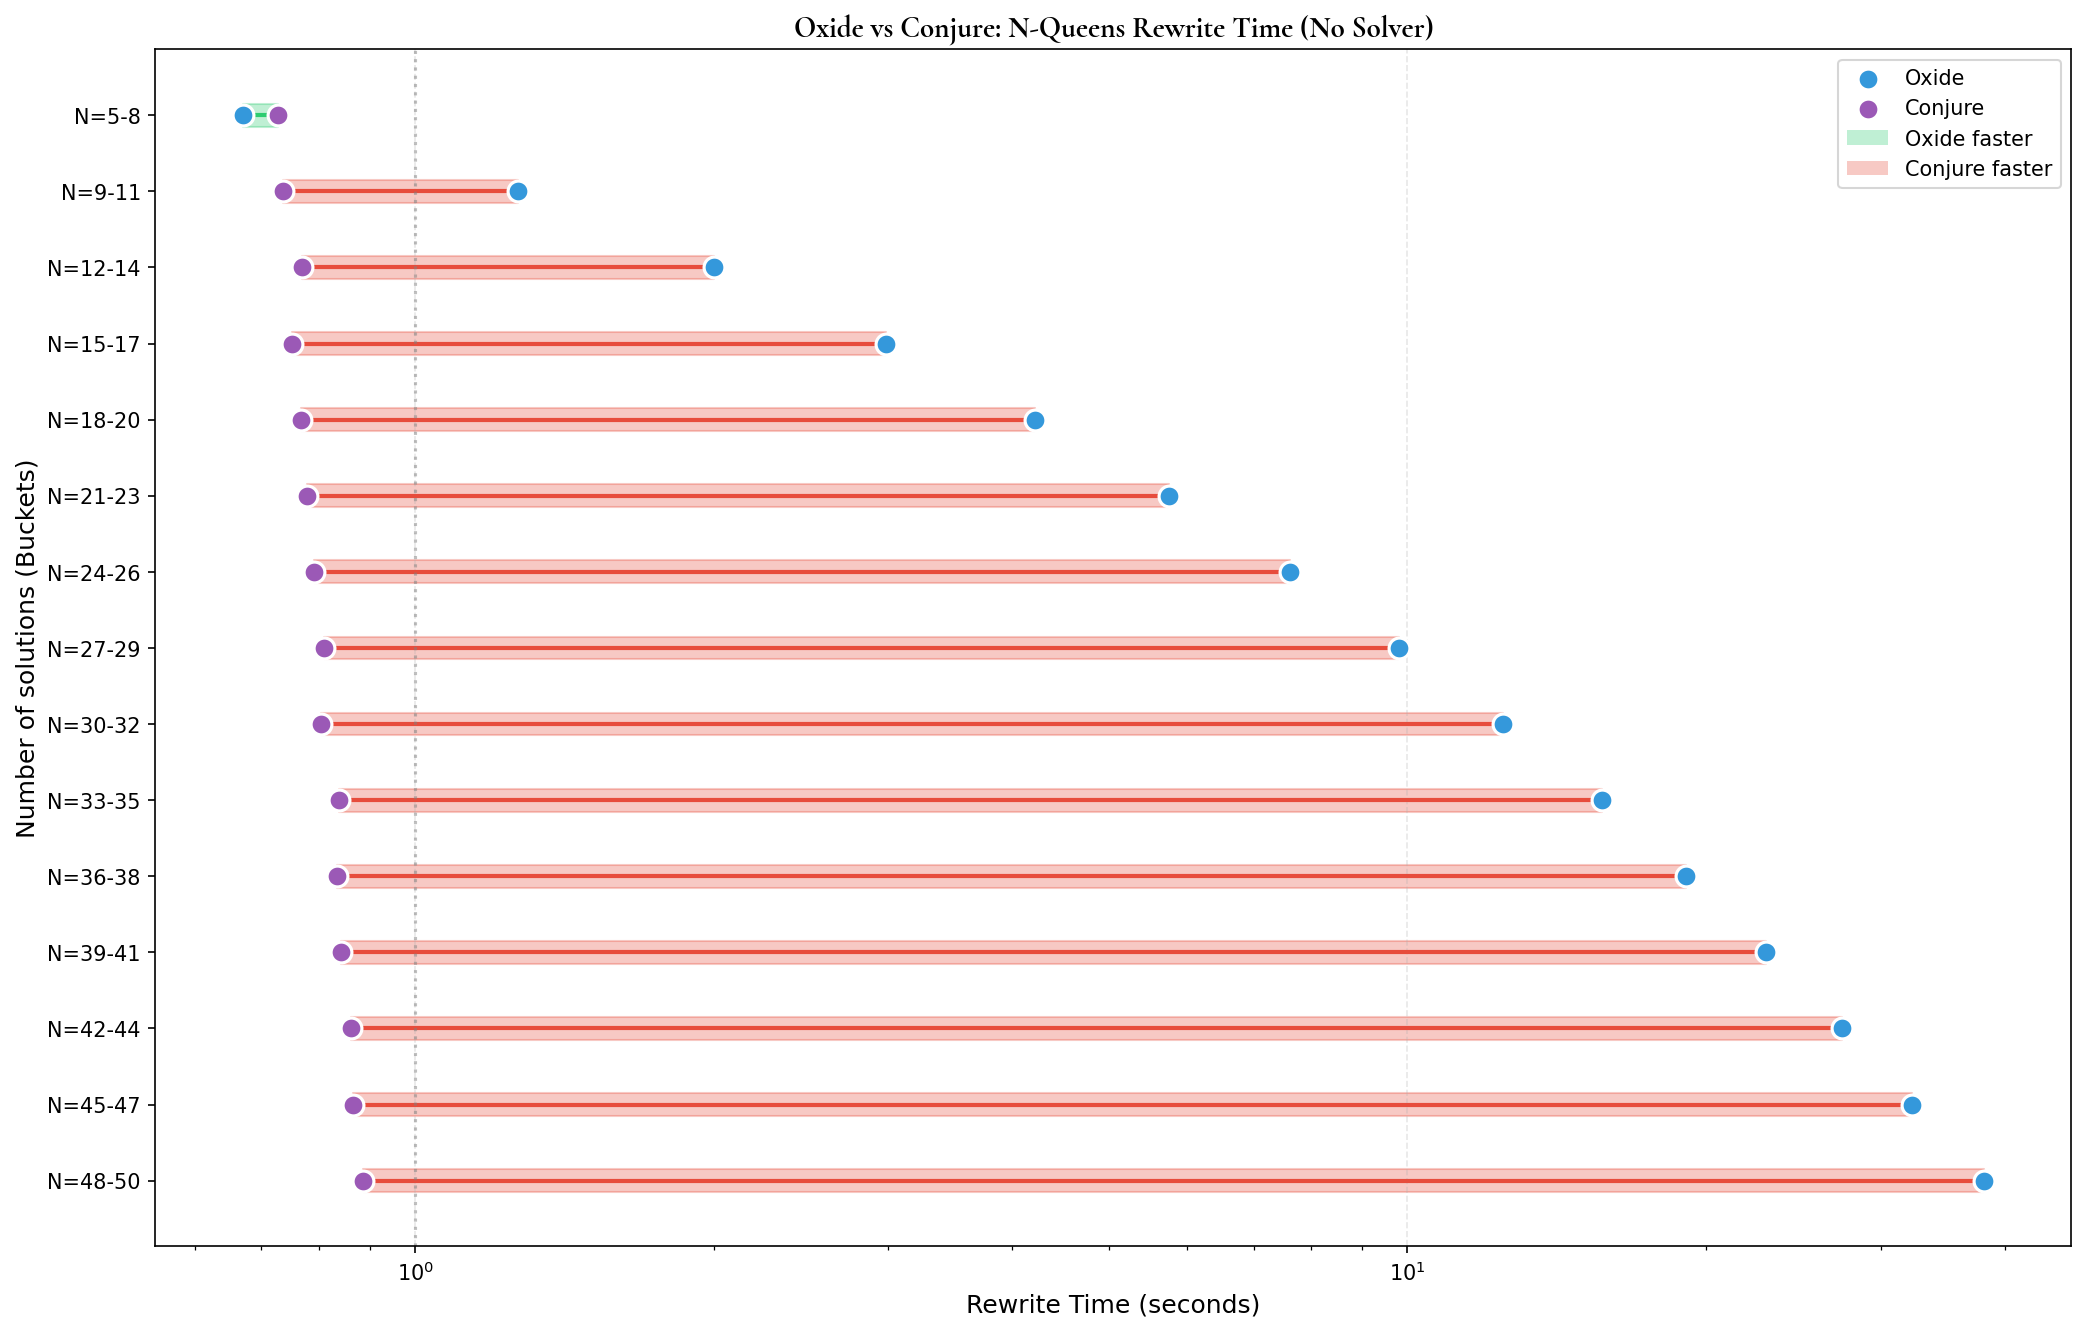
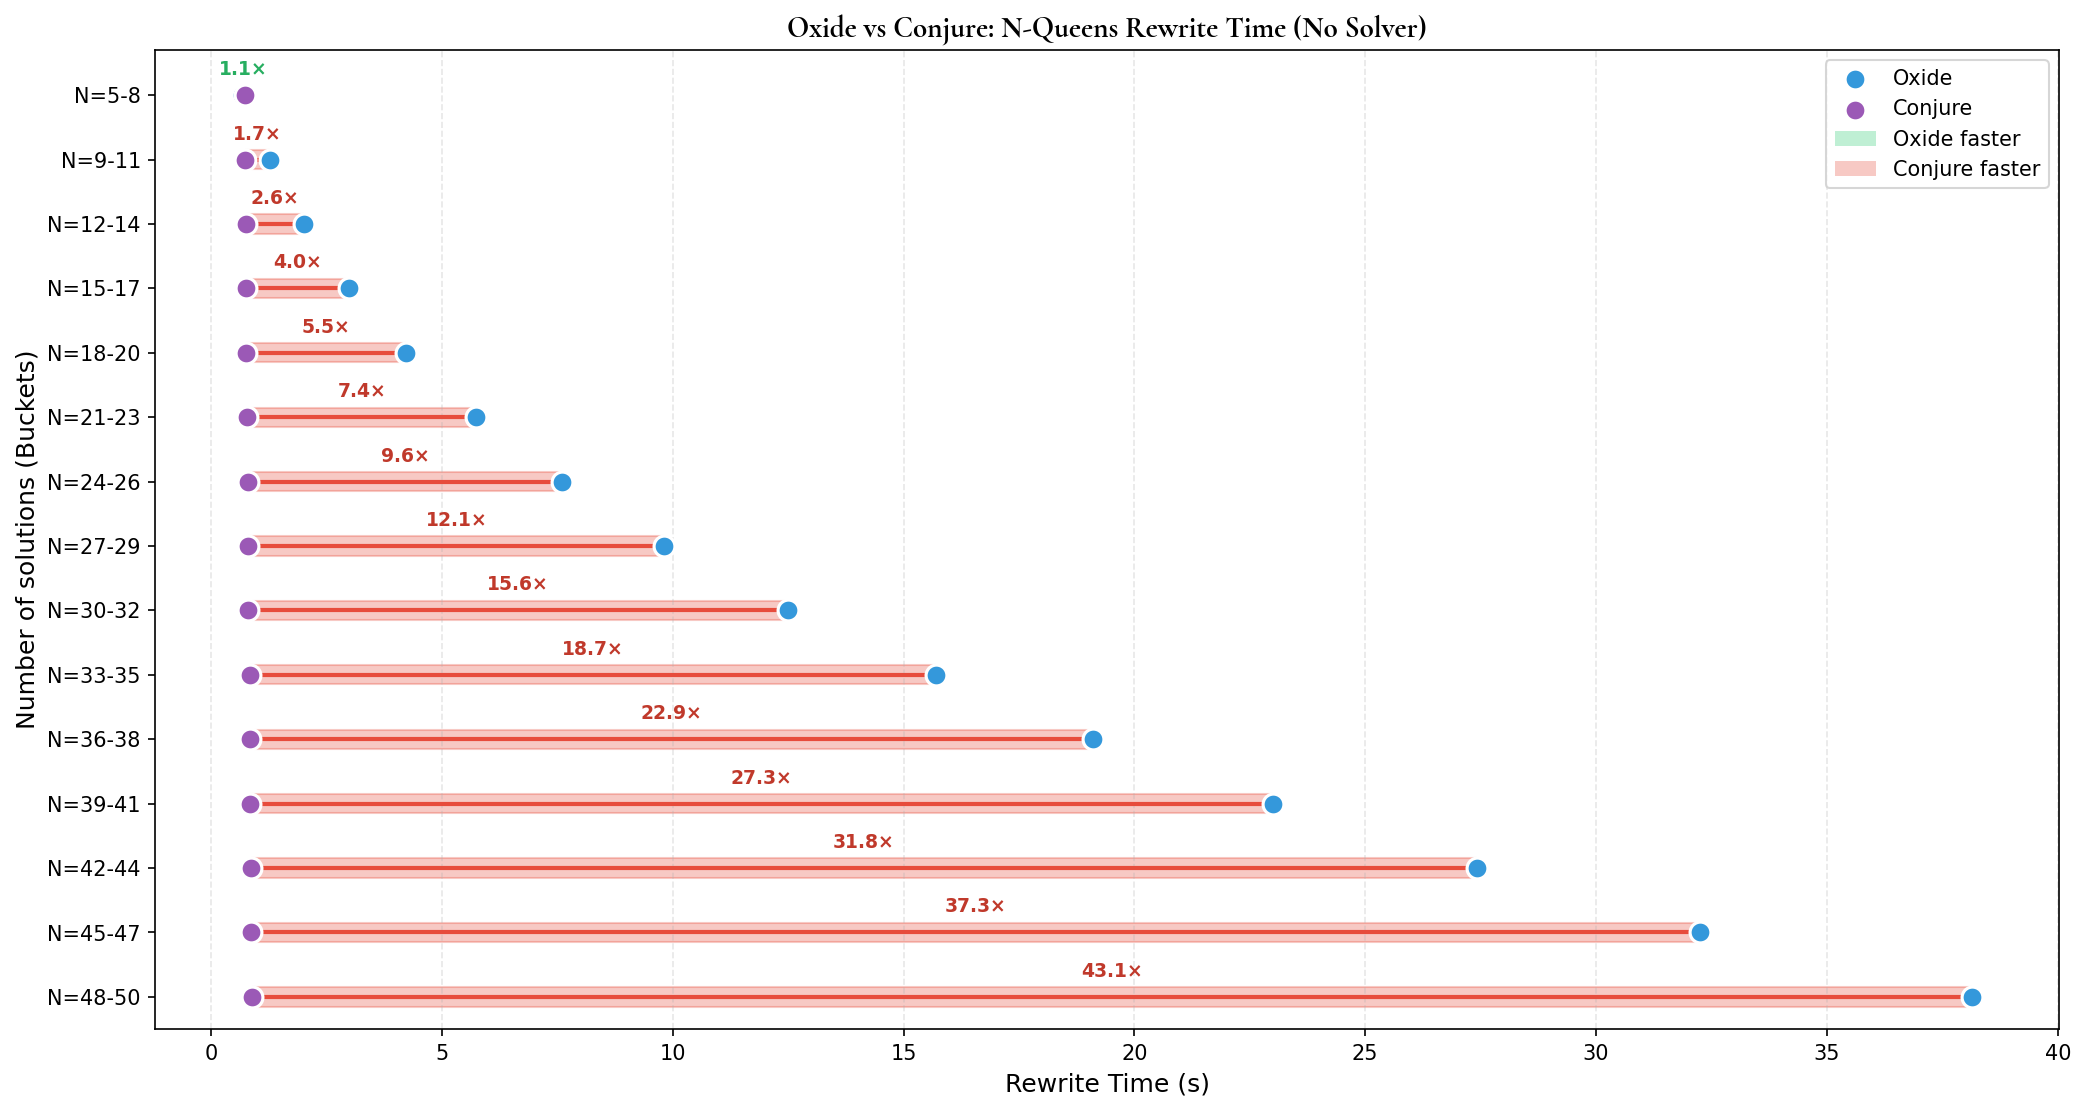
WIP

diff --git a/diss/experiments/scaling-models/compare_stages.py b/diss/experiments/scaling-models/compare_stages.py
@@ -185,11 +185,20 @@ def aggregate_by_bin(df, bin_col, metric_col):
     return agg
 
 
-def plot_comparison(agg_df, bin_col, output_path, title, xlabel):
+def plot_comparison(agg_df, bin_col, output_path, title, xlabel,
+                    use_log_scale=True, use_seconds=True, log_ticks=None,
+                    show_speedup=False):
     """
     Create the comparison plot.
     Each row shows a bin with dots for oxide and conjure,
     connected by a colored line (green if oxide < conjure, red otherwise).
+
+    Args:
+        use_log_scale: If True, use log scale on x-axis. If False, use linear.
+        use_seconds: If True, convert ms to seconds. If False, keep ms.
+        log_ticks: List of tick values for log scale (e.g., [0.1, 1, 10, 100]).
+                   If None, uses default matplotlib ticks.
+        show_speedup: If True, show relative speedup text above each line.
     """
     # Pivot to get oxide and conjure side by side
     pivot = agg_df.pivot(index=[bin_col, 'bin_label'],
@@ -199,18 +208,27 @@ def plot_comparison(agg_df, bin_col, output_path, title, xlabel):
     # Sort by bin
     pivot = pivot.sort_values(bin_col)
 
-    # Convert to seconds
+    # Convert units for plotting
+    if use_seconds:
+        pivot['oxide_plot'] = pivot['oxide'] / 1000
+        pivot['conjure_plot'] = pivot['conjure'] / 1000
+    else:
+        pivot['oxide_plot'] = pivot['oxide']
+        pivot['conjure_plot'] = pivot['conjure']
+
+    # Also keep seconds for summary stats
     pivot['oxide_s'] = pivot['oxide'] / 1000
     pivot['conjure_s'] = pivot['conjure'] / 1000
 
-    # Set up the figure
-    fig, ax = plt.subplots(figsize=(14, max(8, len(pivot) * 0.6)))
+    # Set up the figure - height scales with number of bins
+    fig_height = max(4, len(pivot) * 0.5)
+    fig, ax = plt.subplots(figsize=(14, fig_height))
 
     # Plot each bin
     for i, (_, row) in enumerate(pivot.iterrows()):
         y = len(pivot) - 1 - i  # Reverse order so smallest is at top
-        oxide_time = row['oxide_s']
-        conjure_time = row['conjure_s']
+        oxide_time = row['oxide_plot']
+        conjure_time = row['conjure_plot']
 
         # Determine color based on which is faster
         if oxide_time < conjure_time:
@@ -239,19 +257,49 @@ def plot_comparison(agg_df, bin_col, output_path, title, xlabel):
         ax.scatter(conjure_time, y, color='#9b59b6', s=100, zorder=3,
                    edgecolors='white', linewidths=1.5, label='Conjure' if i == 0 else '')
 
+        # Show speedup text if enabled
+        if show_speedup:
+            if oxide_time < conjure_time:
+                speedup = conjure_time / oxide_time
+                speedup_color = '#27ae60'  # Green - oxide wins
+            else:
+                speedup = oxide_time / conjure_time
+                speedup_color = '#c0392b'  # Red - conjure wins
+
+            # Position text above the line, centered between the two dots
+            text_x = (oxide_time * conjure_time) ** 0.5 if use_log_scale else (oxide_time + conjure_time) / 2
+            ax.text(text_x, y + 0.25, f'{speedup:.1f}×',
+                    ha='center', va='bottom', fontsize=9, fontweight='bold',
+                    color=speedup_color)
+
     # Customize the plot
     ax.set_yticks(range(len(pivot)))
     ax.set_yticklabels(pivot['bin_label'].iloc[::-1])
-    ax.set_xlabel(xlabel, fontsize=12)
+    # Add ", log" to xlabel if using log scale
+    full_xlabel = f"{xlabel}, log" if use_log_scale else xlabel
+    ax.set_xlabel(full_xlabel, fontsize=12)
     ax.set_ylabel('Number of solutions (Buckets)', fontsize=12)
     _set_title(ax, title)
 
-    # Use log scale for better visualization
-    ax.set_xscale('log')
+    # Add padding at top if speedup is shown (so text doesn't clip)
+    if show_speedup:
+        ax.set_ylim(-0.5, len(pivot) - 0.3)
+    else:
+        ax.set_ylim(-0.5, len(pivot) - 0.5)
+
+    # Scale
+    if use_log_scale:
+        ax.set_xscale('log')
+        # Add reference line at 1 second (or 1000ms)
+        ref_val = 1 if use_seconds else 1000
+        ax.axvline(x=ref_val, color='gray', linestyle=':', alpha=0.5)
+        # Set custom ticks if provided
+        if log_ticks is not None:
+            ax.set_xticks(log_ticks)
+            ax.set_xticklabels([str(t) for t in log_ticks])
 
     # Add grid
     ax.grid(True, axis='x', alpha=0.3, linestyle='--')
-    ax.axvline(x=1, color='gray', linestyle=':', alpha=0.5)  # 1 second reference line
 
     # Add legend in top right corner
     handles = [
@@ -300,6 +348,31 @@ def main():
     plots_dir.mkdir(exist_ok=True)
 
     # ==========================================
+    # Plot settings - controllable variables
+    # ==========================================
+    # Rewrite time plots
+    REWRITE_USE_LOG_SCALE = False
+    REWRITE_USE_SECONDS = True
+    REWRITE_NUM_BINS = 6
+    REWRITE_SHOW_SPEEDUP = True
+
+    # Translation time plots
+    TRANSLATION_USE_LOG_SCALE = True
+    TRANSLATION_USE_SECONDS = True
+    TRANSLATION_NUM_BINS = 6
+    TRANSLATION_SHOW_SPEEDUP = True
+
+    # E2E time plots
+    E2E_USE_LOG_SCALE = True
+    E2E_USE_SECONDS = True
+    E2E_NUM_BINS = 6
+    E2E_SHOW_SPEEDUP = True
+
+    # N-Queens no-solver rewrite
+    NQUEENS_NUM_BINS = 15
+    NQUEENS_SHOW_SPEEDUP = True
+
+    # ==========================================
     # 1. Rewriting comparison (solver results only)
     # ==========================================
     print("\n" + "="*60)
@@ -312,7 +385,7 @@ def main():
     df_rewrite = df_rewrite[df_rewrite['num_solutions'] > 0].copy()
     print(f"\nTotal valid rows for rewriting: {len(df_rewrite)}")
 
-    df_rewrite, bin_labels = create_solution_bins(df_rewrite, num_bins=12)
+    df_rewrite, bin_labels = create_solution_bins(df_rewrite, num_bins=REWRITE_NUM_BINS)
     print(f"Created {len(bin_labels)} bins")
 
     agg_rewrite = aggregate_by_bin(df_rewrite, 'solution_bin', 'rewrite_time_ms')
@@ -321,7 +394,10 @@ def main():
         agg_rewrite, 'solution_bin',
         plots_dir / 'compare_rewrite_time.png',
         'Oxide vs Conjure: Rewrite Time',
-        'Rewrite Time (seconds)'
+        'Rewrite Time (ms)' if not REWRITE_USE_SECONDS else 'Rewrite Time (s)',
+        use_log_scale=REWRITE_USE_LOG_SCALE,
+        use_seconds=REWRITE_USE_SECONDS,
+        show_speedup=REWRITE_SHOW_SPEEDUP
     )
     print_summary_stats(pivot_rewrite, "Rewrite Time")
 
@@ -336,7 +412,7 @@ def main():
     df_translation = filter_valid_rows(df_translation, for_translation=True)
     print(f"\nTotal valid rows for translation: {len(df_translation)}")
 
-    df_translation, bin_labels = create_solution_bins(df_translation, num_bins=12)
+    df_translation, bin_labels = create_solution_bins(df_translation, num_bins=TRANSLATION_NUM_BINS)
     print(f"Created {len(bin_labels)} bins")
 
     agg_translation = aggregate_by_bin(df_translation, 'solution_bin', 'solution_translation_time_ms')
@@ -345,12 +421,57 @@ def main():
         agg_translation, 'solution_bin',
         plots_dir / 'compare_translation_time.png',
         'Oxide vs Conjure: Solution Translation Time',
-        'Solution Translation Time (seconds)'
+        'Solution Translation Time (s)' if TRANSLATION_USE_SECONDS else 'Solution Translation Time (ms)',
+        use_log_scale=TRANSLATION_USE_LOG_SCALE,
+        use_seconds=TRANSLATION_USE_SECONDS,
+        show_speedup=TRANSLATION_SHOW_SPEEDUP
     )
     print_summary_stats(pivot_translation, "Translation Time")
 
     # ==========================================
-    # 3. N-Queens no-solver rewrite time comparison
+    # 3. End-to-end time comparison (solver results only)
+    # ==========================================
+    print("\n" + "="*60)
+    print("LOADING DATA FOR E2E TIME COMPARISON")
+    print("="*60)
+
+    df_e2e = load_all_results()
+    df_e2e = filter_valid_rows(df_e2e, for_translation=True)
+
+    # Compute e2e time:
+    # - For oxide: sum of rewrite + solver + translation
+    # - For conjure: conjure_solve_e2e_ms
+    oxide_mask = df_e2e['system'] == 'oxide'
+    conjure_mask = df_e2e['system'] == 'conjure'
+
+    df_e2e.loc[oxide_mask, 'e2e_time_ms'] = (
+        df_e2e.loc[oxide_mask, 'rewrite_time_ms'] +
+        df_e2e.loc[oxide_mask, 'solver_time_ms'] +
+        df_e2e.loc[oxide_mask, 'solution_translation_time_ms']
+    )
+    df_e2e.loc[conjure_mask, 'e2e_time_ms'] = df_e2e.loc[conjure_mask, 'conjure_solve_e2e_ms']
+
+    print(f"\nTotal valid rows for e2e: {len(df_e2e)}")
+
+    df_e2e, bin_labels = create_solution_bins(df_e2e, num_bins=E2E_NUM_BINS)
+    print(f"Created {len(bin_labels)} bins")
+
+    agg_e2e = aggregate_by_bin(df_e2e, 'solution_bin', 'e2e_time_ms')
+
+    pivot_e2e = plot_comparison(
+        agg_e2e, 'solution_bin',
+        plots_dir / 'compare_e2e_time.png',
+        'Oxide vs Conjure: End-to-End Time',
+        'E2E Time (s)' if E2E_USE_SECONDS else 'E2E Time (ms)',
+        use_log_scale=E2E_USE_LOG_SCALE,
+        use_seconds=E2E_USE_SECONDS,
+        log_ticks=[0.5, 1, 2, 5, 10, 20, 50, 100, 200, 500],
+        show_speedup=E2E_SHOW_SPEEDUP
+    )
+    print_summary_stats(pivot_e2e, "E2E Time")
+
+    # ==========================================
+    # 4. N-Queens no-solver rewrite time comparison
     # ==========================================
     print("\n" + "="*60)
     print("N-QUEENS NO-SOLVER REWRITE TIME COMPARISON")
@@ -360,7 +481,7 @@ def main():
     df_nqueens = df_nqueens[df_nqueens['rewrite_time_ms'] > 0].copy()
     print(f"\nTotal valid rows: {len(df_nqueens)}")
 
-    df_nqueens, bin_labels = create_n_bins(df_nqueens, num_bins=15)
+    df_nqueens, bin_labels = create_n_bins(df_nqueens, num_bins=NQUEENS_NUM_BINS)
     print(f"Created {len(bin_labels)} bins")
 
     agg_nqueens = aggregate_by_bin(df_nqueens, 'n_bin', 'rewrite_time_ms')
@@ -369,7 +490,10 @@ def main():
         agg_nqueens, 'n_bin',
         plots_dir / 'compare_nqueens_rewrite.png',
         'Oxide vs Conjure: N-Queens Rewrite Time (No Solver)',
-        'Rewrite Time (seconds)'
+        'Rewrite Time (ms)' if not REWRITE_USE_SECONDS else 'Rewrite Time (s)',
+        use_log_scale=REWRITE_USE_LOG_SCALE,
+        use_seconds=REWRITE_USE_SECONDS,
+        show_speedup=NQUEENS_SHOW_SPEEDUP
     )
     print_summary_stats(pivot_nqueens, "N-Queens Rewrite Time")
 
